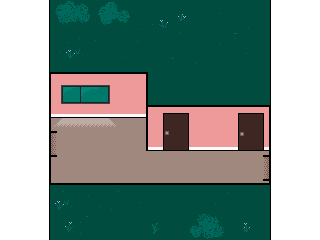
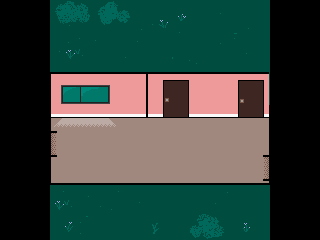
more rooms

diff --git a/game1/src/main.rs b/game1/src/main.rs
@@ -17,6 +17,13 @@ fn update_state(state: &mut State, mut dx: i32, mut dy: i32) -> () {
         pos: Vec2i { x: state.sprite.collider.pos.x as i32 + dx, y: state.sprite.collider.pos.y as i32 + dy},
         sz: state.sprite.collider.sz,
     };
+
+    if dx>0 {
+        state.sprite.sheetpos.pos.x = 39;
+    }
+    else {
+        state.sprite.sheetpos.pos.x = 28;
+    }
    
     if state.rooms[state.room].floor.contains(new_collider) == false {
         dx = 0;
@@ -97,40 +104,22 @@ fn render2d(assets: &Assets, state: &mut State, fb2d: &mut Image) {
         state.sprite.cur_pos,
     );
 
-    // add textbox and text
-    for desc in state.rooms[state.room].desc.iter() {
-        //for txtbx in desc.txtbx.iter() {
-            fb2d.bitblt(
-            &desc.img,
-            desc.frames[desc.cur_frame],
-            desc.roomloca,
-        );
-        for txt in desc.txt.iter(){
-            fb2d.bitblt(
-                &txt.font,
-                txt.frames[txt.cur_frame],
-                txt.roomloca,
-            );
-        }
-    }
-    
-
-            //if state.sprite.collider.touches(item.collider){
-            //     for desc in item.desc.iter() {
-            //         fb2d.bitblt(
-            //         &desc.img,
-            //         desc.frames[desc.cur_frame],
-            //         desc.roomloca,
-            //     );
-            //     for txt in desc.txt.iter(){
-            //         fb2d.bitblt(
-            //             &txt.font,
-            //             txt.frames[txt.cur_frame],
-            //             txt.roomloca,
-            //         );
-            //     }
-            // }
-
+    // // add textbox and text
+    // for desc in state.rooms[state.room].desc.iter() {
+    //     //for txtbx in desc.txtbx.iter() {
+    //         fb2d.bitblt(
+    //         &desc.img,
+    //         desc.frames[desc.cur_frame],
+    //         desc.roomloca,
+    //     );
+    //     for txt in desc.txt.iter(){
+    //         fb2d.bitblt(
+    //             &txt.font,
+    //             txt.frames[txt.cur_frame],
+    //             txt.roomloca,
+    //         );
+    //     }
+    // }
 
 }
 
@@ -279,7 +268,7 @@ fn main() {
         img: Image::from_file(std::path::Path::new("content/spritesheet.png")),
         colliders: vec![Rect {
             pos: Vec2i { x: 53, y: 89 },
-            sz: Vec2i { x: 1, y: 1 },
+            sz: Vec2i {  x: 41, y: 35 },
         }],
         frames: vec![Rect {
             pos: Vec2i { x: 52, y: 25 },
@@ -337,10 +326,10 @@ fn main() {
                     pos: Vec2i { x: 97, y: 104 },
                     sz: Vec2i { x: 8, y: 10 },
                 },
-        roomloca: Vec2i { x: 200, y: 200 },
+        roomloca: Vec2i { x: 220, y: 110 },
         img: Image::from_file(std::path::Path::new("content/spritesheet.png")),
         colliders: vec![Rect {
-            pos: Vec2i { x: 200, y: 200 },
+            pos: Vec2i { x: 220, y: 110},
             sz: Vec2i { x: 8, y: 10 },
         }],
         frames: vec![Rect {
@@ -356,7 +345,7 @@ fn main() {
             sz: Vec2i { x: 6, y: 50 },
         },
         target: 1,
-        spawn_pos: Vec2i { x: 100, y: 157 },
+        spawn_pos: Vec2i { x: 224, y: 138 },
     };
 
     let hallway_door2 = Door {
@@ -365,18 +354,121 @@ fn main() {
             sz: Vec2i { x: 6, y: 50 },
         },
         target: 0,
-        spawn_pos: Vec2i { x: 100, y: 157 },
+        spawn_pos: Vec2i { x: 130, y: 157 },
+    };
+
+    let hallway_door3 = Door {
+        collider: Rect {
+            pos: Vec2i { x: 164, y: 81 },
+            sz: Vec2i { x: 25, y: 38 },
+        },
+        target: 3,
+        spawn_pos: Vec2i { x: 112, y: 110 },
+    };
+
+    let hallway_door4 = Door {
+        collider: Rect {
+            pos: Vec2i { x: 239, y: 81 },
+            sz: Vec2i { x: 25, y: 38 },
+        },
+        target: 4,
+        spawn_pos: Vec2i { x: 194, y: 110 },
     };
 
     let hallway = Room {
         name: String::from("Hallway"),
         desc: Vec::<Textbox>::from([Textbox::new(String::from("ughh"))]),
-        items: Vec::<Item>::from([dresser, diary]),
-        img: Image::from_file(std::path::Path::new("content/hallway.png")),
-        doors: Vec::<Door>::from([hallway_door1, hallway_door2]),
+        items: Vec::<Item>::from([dresser]),
+        img: Image::from_file(std::path::Path::new("content/hallway2.png")),
+        doors: Vec::<Door>::from([hallway_door1, hallway_door2, hallway_door3, hallway_door4]),
         floor: Rect {
-            pos: Vec2i { x: 52, y: 119 },
-            sz: Vec2i { x: 217, y: 92 },
+            pos: Vec2i { x: 52, y: 108 },
+            sz: Vec2i { x: 217, y: 76 },
+        }
+    };
+
+    let bedroom_door1 = Door {
+        collider: Rect {
+            pos: Vec2i { x: 112, y: 152 },
+            sz: Vec2i { x: 22, y: 5 },
+        },
+        target: 2,
+        spawn_pos: Vec2i { x: 164, y: 101 },
+    };
+
+    let bedroom_door2 = Door {
+        collider: Rect {
+            pos: Vec2i { x: 194, y: 152 },
+            sz: Vec2i { x: 22, y: 5 }
+        },
+        target: 2,
+        spawn_pos: Vec2i { x: 239, y: 101 },
+    };
+
+    let bed2 = Item {
+        name: String::from("Bed"),
+        //desc: String::from("There's nothing in this."),
+        desc: Vec::<Textbox>::from([Textbox::new(String::from("There's nothing in this."))]),
+        sheetpos: Rect {
+                    pos: Vec2i { x: 130, y: 25 },
+                    sz: Vec2i { x: 20, y: 39 },
+                },
+        roomloca: Vec2i { x: 159, y: 92 },
+        img: Image::from_file(std::path::Path::new("content/spritesheet.png")),
+        colliders: vec![Rect {
+            pos: Vec2i { x: 159, y: 92 },
+            sz: Vec2i { x: 18, y: 39 },
+        }],
+        frames: vec![Rect {
+            pos: Vec2i { x: 130, y: 25 },
+            sz: Vec2i { x: 20, y: 39 },
+        }],
+        cur_frame: 0,
+    };
+
+    let bed1 = Item {
+        name: String::from("Bed"),
+        //desc: String::from("There's nothing in this."),
+        desc: Vec::<Textbox>::from([Textbox::new(String::from("There's nothing in this."))]),
+        sheetpos: Rect {
+                    pos: Vec2i { x: 0, y: 24 },
+                    sz: Vec2i { x: 36, y: 40 },
+                },
+        roomloca: Vec2i { x: 69, y: 102 },
+        img: Image::from_file(std::path::Path::new("content/spritesheet.png")),
+        colliders: vec![Rect {
+            pos: Vec2i { x: 69, y: 102 },
+            sz: Vec2i { x: 34, y: 40 },
+        }],
+        frames: vec![Rect {
+            pos: Vec2i { x: 0, y: 24 },
+            sz: Vec2i { x: 36, y: 40  },
+        }],
+        cur_frame: 0,
+    };
+
+
+    let bedroom1 = Room {
+        name: String::from("Bedroom"),
+        desc: Vec::<Textbox>::from([Textbox::new(String::from("This is my bedroom"))]),
+        items: Vec::<Item>::from([bed1]),
+        img: Image::from_file(std::path::Path::new("content/bedroom1.png")),
+        doors: Vec::<Door>::from([bedroom_door1]),
+        floor: Rect {
+            pos: Vec2i { x: 69, y: 102 },
+            sz: Vec2i { x: 86, y: 54 },
+        }
+    };
+
+    let bedroom2 = Room {
+        name: String::from("Bedroom"),
+        desc: Vec::<Textbox>::from([Textbox::new(String::from("Idk whose room this is"))]),
+        items: Vec::<Item>::from([bed2, diary]),
+        img: Image::from_file(std::path::Path::new("content/bedroom2.png")),
+        doors: Vec::<Door>::from([bedroom_door2]),
+        floor: Rect {
+            pos: Vec2i { x: 159, y: 102 },
+            sz: Vec2i { x: 86, y: 54 },
         }
     };
 
@@ -386,18 +478,18 @@ fn main() {
             sz: Vec2i { x: 6, y: 20 },
         },
         target: 2,
-        spawn_pos: Vec2i { x: 100, y: 157 },
+        spawn_pos: Vec2i { x: 71, y: 110 },
     };
 
     let livingroom = Room {
         name: String::from("Front Yard"),
         desc: Vec::<Textbox>::from([Textbox::new(String::from("ughh"))]),
         items: Vec::<Item>::from([key, couch, shelf]),
-        img: Image::from_file(std::path::Path::new("content/room3.png")),
+        img: Image::from_file(std::path::Path::new("content/livingroom.png")),
         doors: Vec::<Door>::from([livingroom_door]),
         floor: Rect {
-            pos: Vec2i { x: 52, y: 97 },
-            sz: Vec2i { x: 217, y: 102 },
+            pos: Vec2i { x: 52, y: 107 },
+            sz: Vec2i { x: 217, y: 96 },
         }
     };
 
@@ -406,7 +498,7 @@ fn main() {
             pos: Vec2i { x: 146, y: 111 },
             sz: Vec2i { x: 6, y: 50 },
         },
-        target: 1,
+        target: 2,
         spawn_pos: Vec2i { x: 153, y: 139 },
     };
 
@@ -434,7 +526,7 @@ fn main() {
         ]
     };
 
-    let mut sprite = Sprite {
+    let sprite = Sprite {
         sheetpos: Rect {
             pos: Vec2i { x: 28, y: 178 },
             sz: Vec2i { x: 12, y: 37 },
@@ -454,7 +546,7 @@ fn main() {
         fc: 0,
         color: 0,
         room: 0,
-        rooms: vec![yard, livingroom, hallway],
+        rooms: vec![yard, livingroom, hallway, bedroom1, bedroom2],
         sprite: sprite,
         inventory: vec![],
     };

diff --git a/engine2d/src/gameobjects.rs b/engine2d/src/gameobjects.rs
@@ -17,13 +17,6 @@ pub struct Item {
     pub cur_frame: usize,
 }
 
-impl Item{
-    pub fn update_pos(&mut self, x_pos: usize, y_pos: usize){
-        self.roomloca =  Vec2i { x: x_pos as i32, y:  y_pos as i32}; 
-    }
-}
-
-
 // #[derive(PartialEq, Eq, Clone)]
 pub struct Tile {
     pub sheetpos: Rect,
@@ -145,12 +138,12 @@ impl State {
                     println!("{:?}", item.name);
                     if item.name == "Key"{
                         println!("You got the key");
-                        // item.update_pos(0,0);
                         item.roomloca =  Vec2i { x: 10, y: 10};
                         self.inventory.push(item.name.clone());
                     }
                     if item.name == "Diary" && self.inventory.contains(&"Key".to_string()){
                         println!("It's not polite to read someone else's diary. GAME OVER.");
+                        item.roomloca =  Vec2i { x: 10, y: 10};
                     }
                    
                 }
